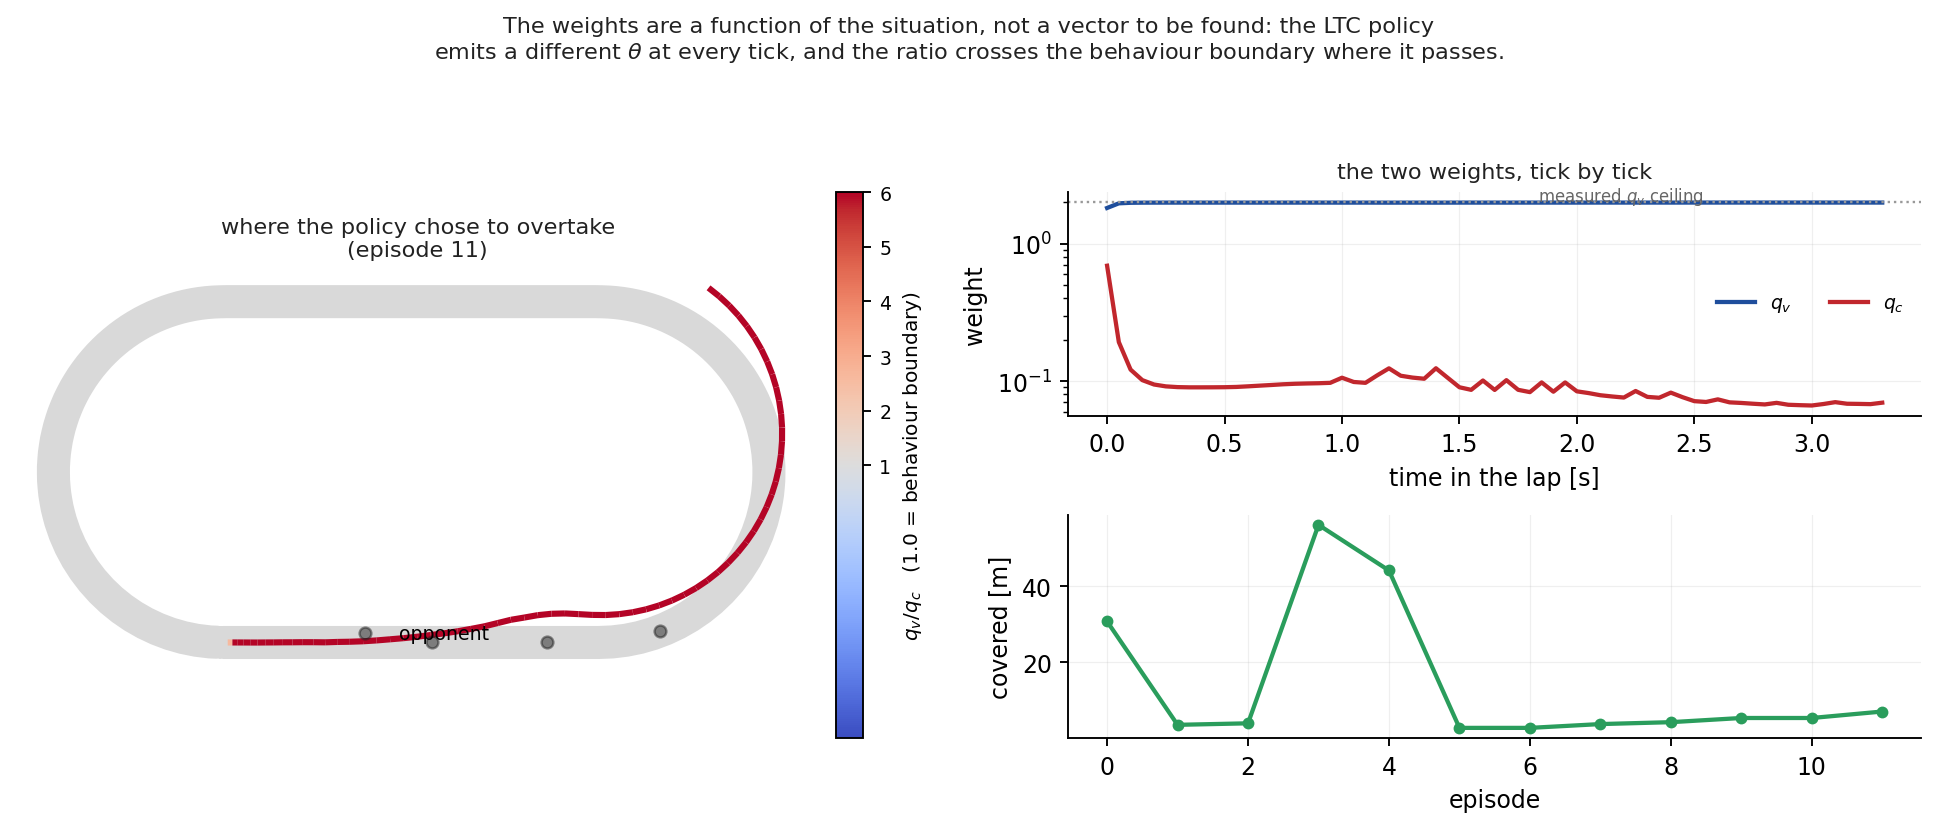
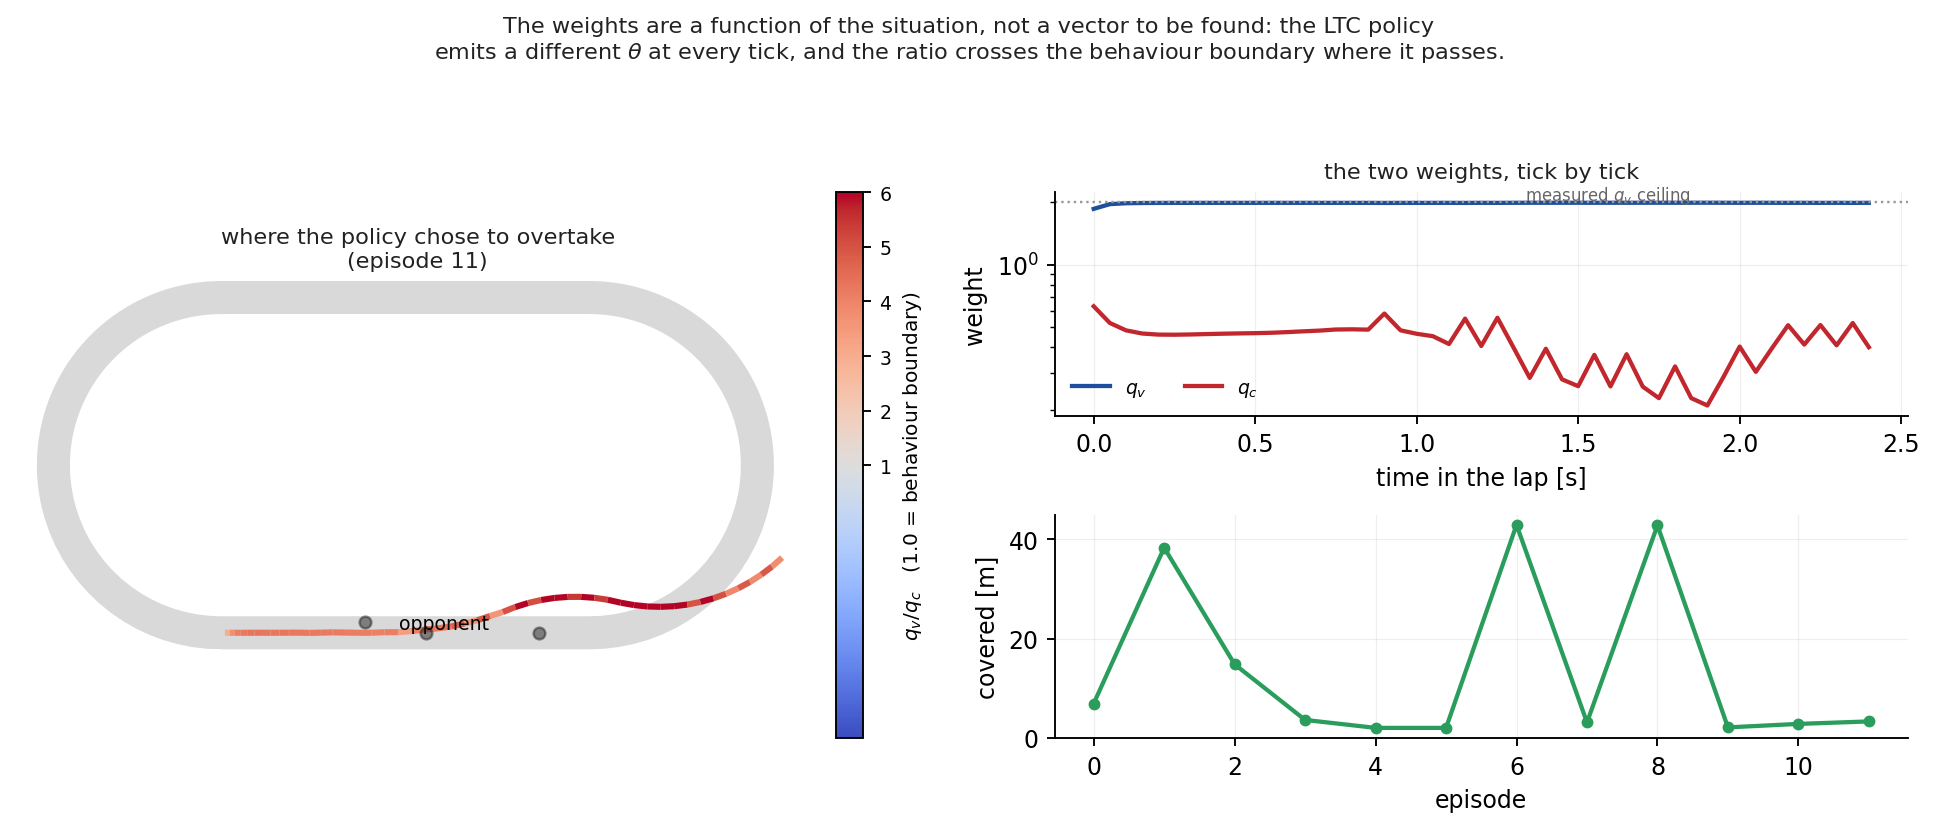
Start the policy from a working controller, not the spike's bad one
The policy began at q_l=200, q_v=0.5 -- ratio 0.050, twenty times below the
behaviour boundary and the deliberately-bad initialisation the original spike
uses to give the tuner somewhere to climb from. That makes the task RECOVERY of
a crawling controller rather than ADAPTATION of a working one, which is not
what a behaviour policy is for and is a large part of why the gradient pushed
one way and never stopped: from 0.05 there is a long, consistently-signed climb
to the boundary for it to build momentum over.

Now starts at (q_v, q_c) = (2.0, 1.0), the measured clean-pass cell from
overtake_or_follow.py -- 36.6 m, one pass, no crash.

It also makes the prior principled. Pulling back towards a controller known to
work is a trust region around a reference policy; pulling back towards a
crawling one is just a brake. Same code, different justification.

Every LTC number reported so far -- 31.8, 29.3, 24.0 m -- was measured on the
recovery task and is superseded.

Claude-Session: https://claude.ai/code/session_01MGmixkzXxYczykY66RAVme

diff --git a/scripts/make_figures.py b/scripts/make_figures.py
@@ -592,7 +592,20 @@ def fig_adaptation():
     from examples.tune_online import Plant
 
     track = Track.oval()
-    theta0 = MPCCWeights(q_c=10.0, q_l=200.0, q_v=0.5, r_d=1.0).to_log()
+    theta0 = MPCCWeights(q_c=1.0, q_v=2.0).to_log()
+    # A *working* controller, not the spike's deliberately-bad one. The policy's
+    # job is to ADAPT a controller that already drives -- to the sector ahead,
+    # to how aggressive we want to be, to whether there is someone to pass --
+    # not to recover one that crawls.
+    #
+    # (q_v, q_c) = (2.0, 1.0) is the measured clean-pass cell from
+    # experiments/overtake_or_follow.py: 36.6 m, one pass, no crash. Starting
+    # instead at q_l=200, q_v=0.5 puts the ratio at 0.050, twenty times BELOW
+    # the behaviour boundary, so the policy had to drag it across just to
+    # overtake at all -- which is why the gradient pushed one way and never
+    # stopped. It also makes the prior principled: pulling back towards a
+    # controller known to work is a trust region around a reference policy,
+    # where pulling back towards a crawling one is just a brake.
     m = MPCC(track, model=KinematicBicycle(dt=0.05), horizon=12, dt=0.05,
              max_iter=60, max_obstacles=1)
     cell = LTCCell(N_FEATURES, 12, seed=0)

diff --git a/experiments/ltc_behaviour.py b/experiments/ltc_behaviour.py
@@ -68,7 +68,20 @@ def run(arm, seed=0, n_ep=20, steps=300, n_hidden=12):
     from examples.tune_online import Plant
 
     track = Track.oval()
-    theta0 = MPCCWeights(q_c=10.0, q_l=200.0, q_v=0.5, r_d=1.0).to_log()
+    theta0 = MPCCWeights(q_c=1.0, q_v=2.0).to_log()
+    # A *working* controller, not the spike's deliberately-bad one. The policy's
+    # job is to ADAPT a controller that already drives -- to the sector ahead,
+    # to how aggressive we want to be, to whether there is someone to pass --
+    # not to recover one that crawls.
+    #
+    # (q_v, q_c) = (2.0, 1.0) is the measured clean-pass cell from
+    # experiments/overtake_or_follow.py: 36.6 m, one pass, no crash. Starting
+    # instead at q_l=200, q_v=0.5 puts the ratio at 0.050, twenty times BELOW
+    # the behaviour boundary, so the policy had to drag it across just to
+    # overtake at all -- which is why the gradient pushed one way and never
+    # stopped. It also makes the prior principled: pulling back towards a
+    # controller known to work is a trust region around a reference policy,
+    # where pulling back towards a crawling one is just a brake.
     m = MPCC(track, model=KinematicBicycle(dt=0.05), horizon=12, dt=0.05,
              max_iter=60, max_obstacles=1)
 
